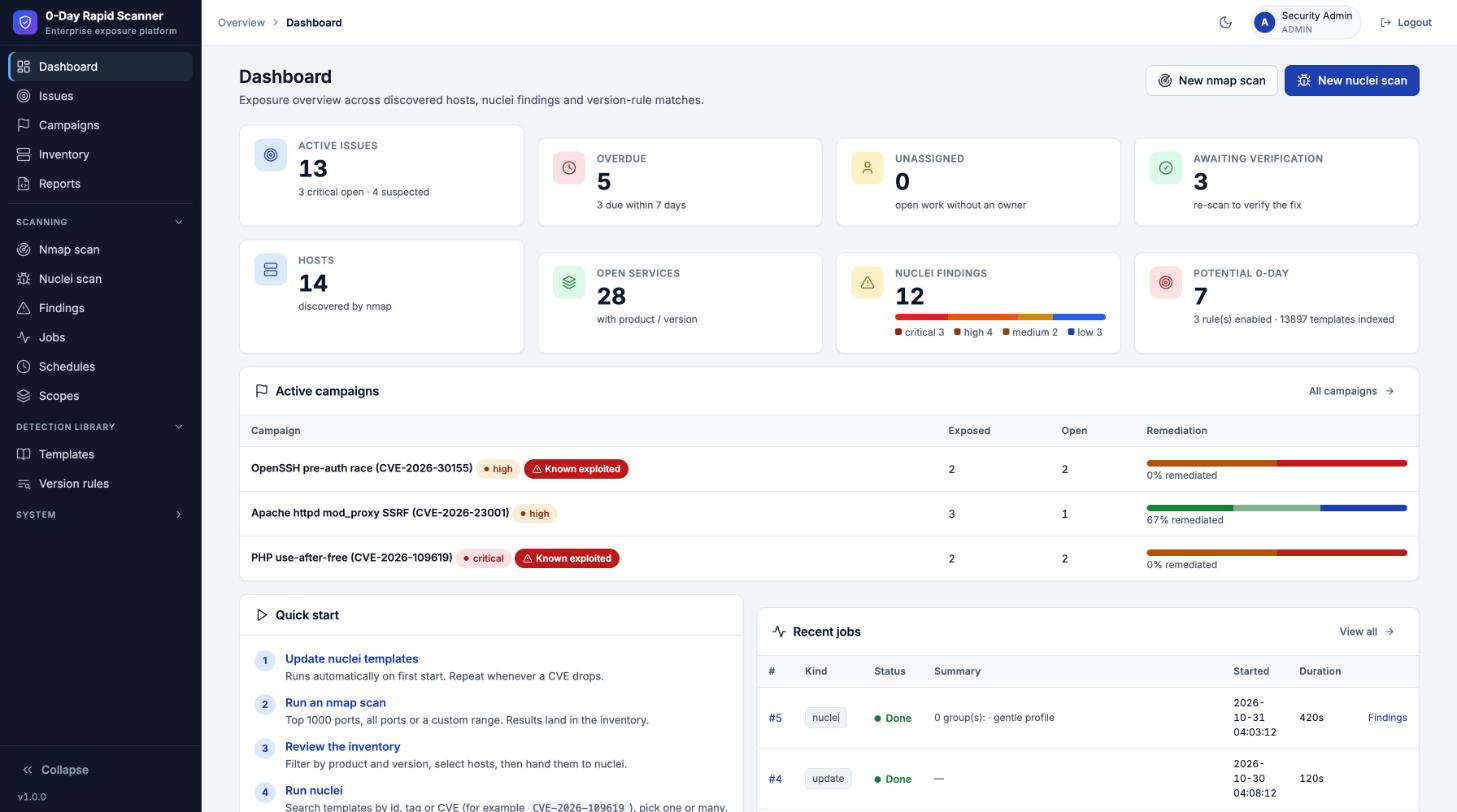
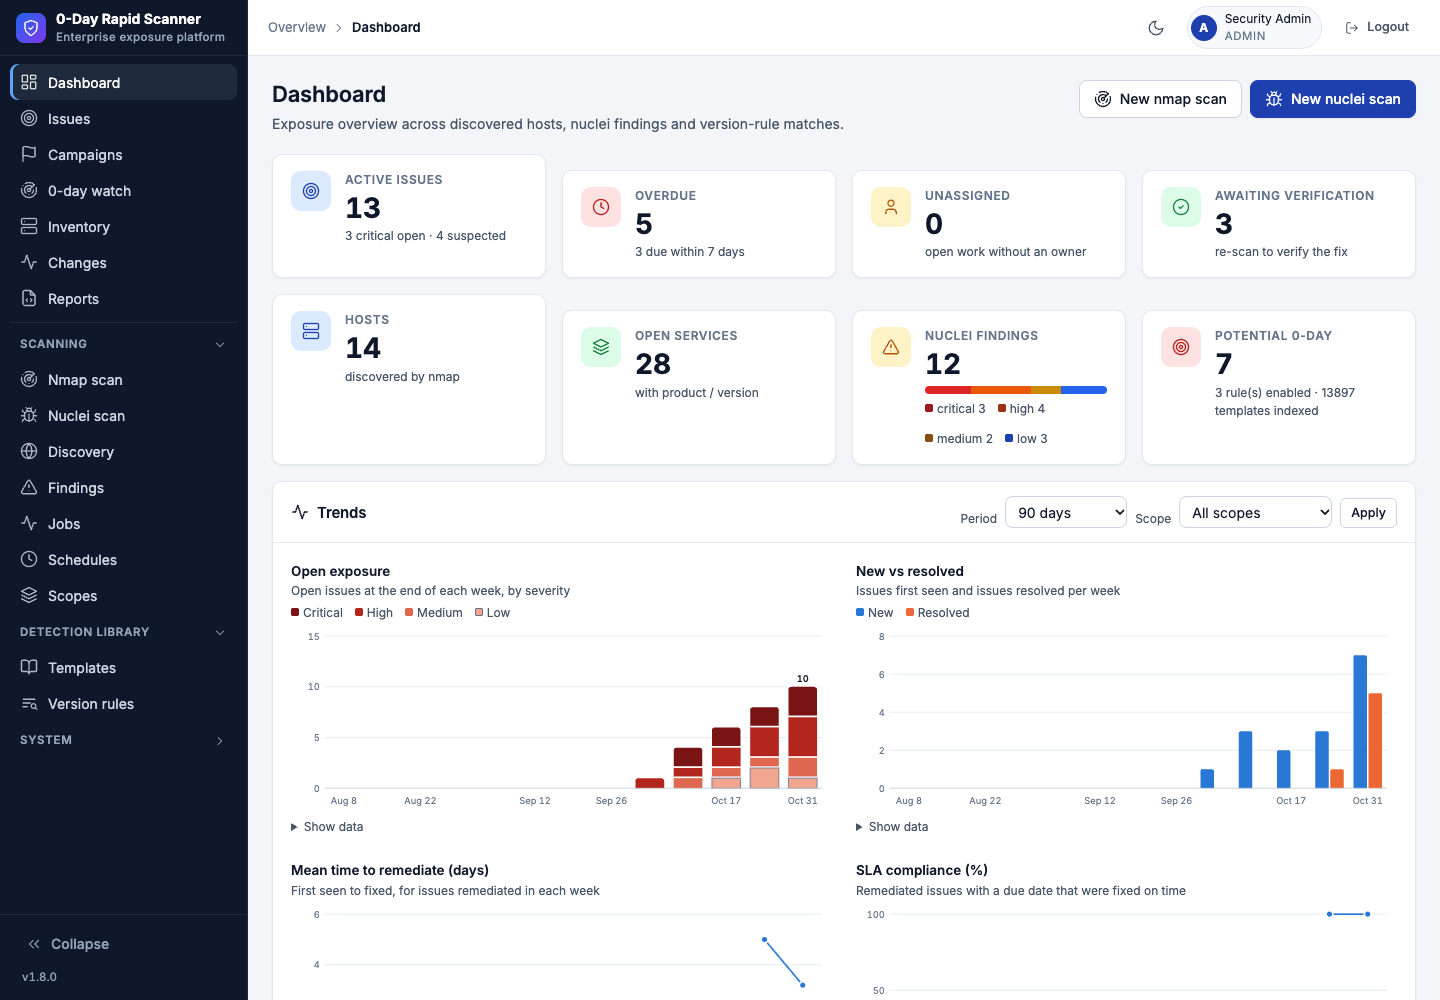
docs: screenshots for Trends, Changes and Discovery (1.8.0)
Fictional demo data only (RFC 5737 addresses, example.com hosts).

diff --git a/docs/USER_GUIDE.th.md b/docs/USER_GUIDE.th.md
@@ -113,6 +113,8 @@ docker compose up -d --build
 
 ทุกครั้งที่สแกน nmap เสร็จ ระบบเทียบผลกับ Inventory ก่อนสแกน แล้วบันทึกการเปลี่ยนแปลงไว้ที่เมนู **Changes**
 
+![หน้า Changes แสดงการเปลี่ยนแปลงของ attack surface](screenshots/changes.png)
+
 | ชนิด | ความหมาย |
 |---|---|
 | *New host* | เจอ host ที่ไม่เคยมีใน Inventory (1 รายการต่อ host พร้อมรายชื่อพอร์ตที่เปิด) |
@@ -130,6 +132,8 @@ docker compose up -d --build
 ### Discovery: ค้นหา asset ภายนอก
 
 ใช้หา subdomain และเว็บขององค์กรที่ทีมอาจไม่รู้ว่ามีอยู่ **ใช้กับโดเมนที่คุณเป็นเจ้าของหรือได้รับอนุญาตเท่านั้น**
+
+![หน้า Discovery พร้อมตาราง Discovered assets](screenshots/discovery.png)
 
 1. ไปที่ **Scanning → Discovery**
 2. **Root domains** ใส่บรรทัดละหนึ่งโดเมน เช่น `example.com` (สูงสุด 20 โดเมน ไม่ต้องใส่ `https://`)
@@ -334,6 +338,8 @@ inventory) แล้วจับคู่กับ inventory 3 ชั้น: CPE
 ### กราฟแนวโน้มบน Dashboard (Trends)
 
 การ์ด **Trends** บน Dashboard คำนวณจากประวัติ issue ที่มีอยู่แล้ว จึงเห็นย้อนหลังได้ทันที
+
+![การ์ด Trends บน Dashboard](screenshots/dashboard.png)
 
 | กราฟ | แสดงอะไร |
 |---|---|

diff --git a/README.md b/README.md
@@ -93,6 +93,8 @@ Everything runs in one container. No external services, no accounts, works offli
 | ![Inventory](docs/screenshots/inventory.png) | ![Nuclei scan](docs/screenshots/nuclei.png) |
 | **Verify now and Proof** | **Verification template for a suspected issue** |
 | ![Proof](docs/screenshots/proof.png) | ![Verification template](docs/screenshots/verify-template.png) |
+| **Attack-surface changes** | **External asset discovery** |
+| ![Changes](docs/screenshots/changes.png) | ![Discovery](docs/screenshots/discovery.png) |
 
 <sub>Screenshots use fictional demo data (RFC 5737 documentation addresses, example.com hosts, made-up CVE ids).</sub>
 
